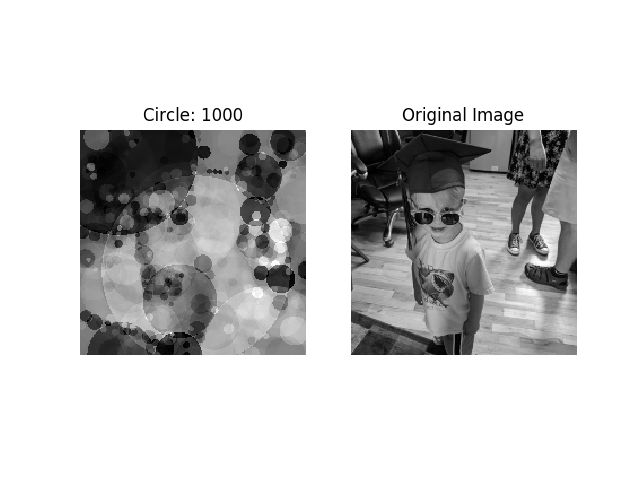
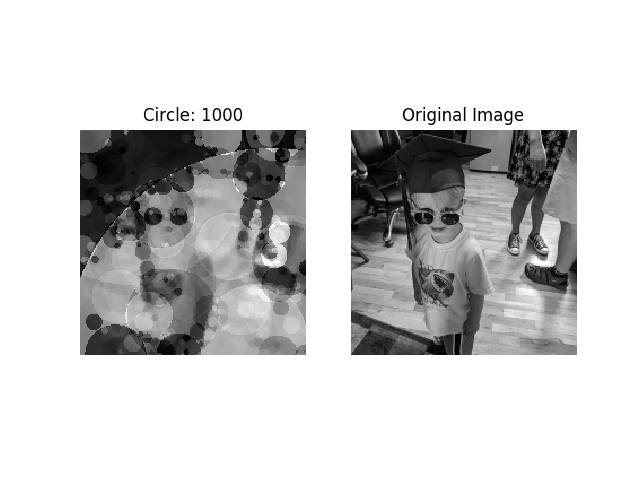
Reran k using step function for population.

Changed region(s): [[0.125, 0.25, 0.4688, 0.75], [0.125, 0.2812, 0.2188, 0.375]]

diff --git a/ga.py b/ga.py
@@ -60,22 +60,22 @@ class GA():
                 if self.headless:
                     self.Draw()
                 plt.savefig('results/' + filename + '_0200.png')
-            # elif self.epoch == 499:
-            #     if self.headless:
-            #         self.Draw()
-            #     plt.savefig('results/' + filename + '_0500.png')
-            # elif self.epoch == 999:
-            #     if self.headless:
-            #         self.Draw()
-            #     plt.savefig('results/' + filename + '_1000.png')
-            # elif self.epoch == 1999:
-            #     if self.headless:
-            #         self.Draw()
-            #     plt.savefig('results/' + filename + '_2000.png')
-            # elif self.epoch == 2999:
-            #     if self.headless:
-            #         self.Draw()
-            #     plt.savefig('results/' + filename + '_3000.png')
+            elif self.epoch == 499:
+                if self.headless:
+                    self.Draw()
+                plt.savefig('results/' + filename + '_0500.png')
+            elif self.epoch == 999:
+                if self.headless:
+                    self.Draw()
+                plt.savefig('results/' + filename + '_1000.png')
+            elif self.epoch == 1999:
+                if self.headless:
+                    self.Draw()
+                plt.savefig('results/' + filename + '_2000.png')
+            elif self.epoch == 2999:
+                if self.headless:
+                    self.Draw()
+                plt.savefig('results/' + filename + '_3000.png')
             elif self.epoch == 3999:
                 if self.headless:
                     self.Draw()
